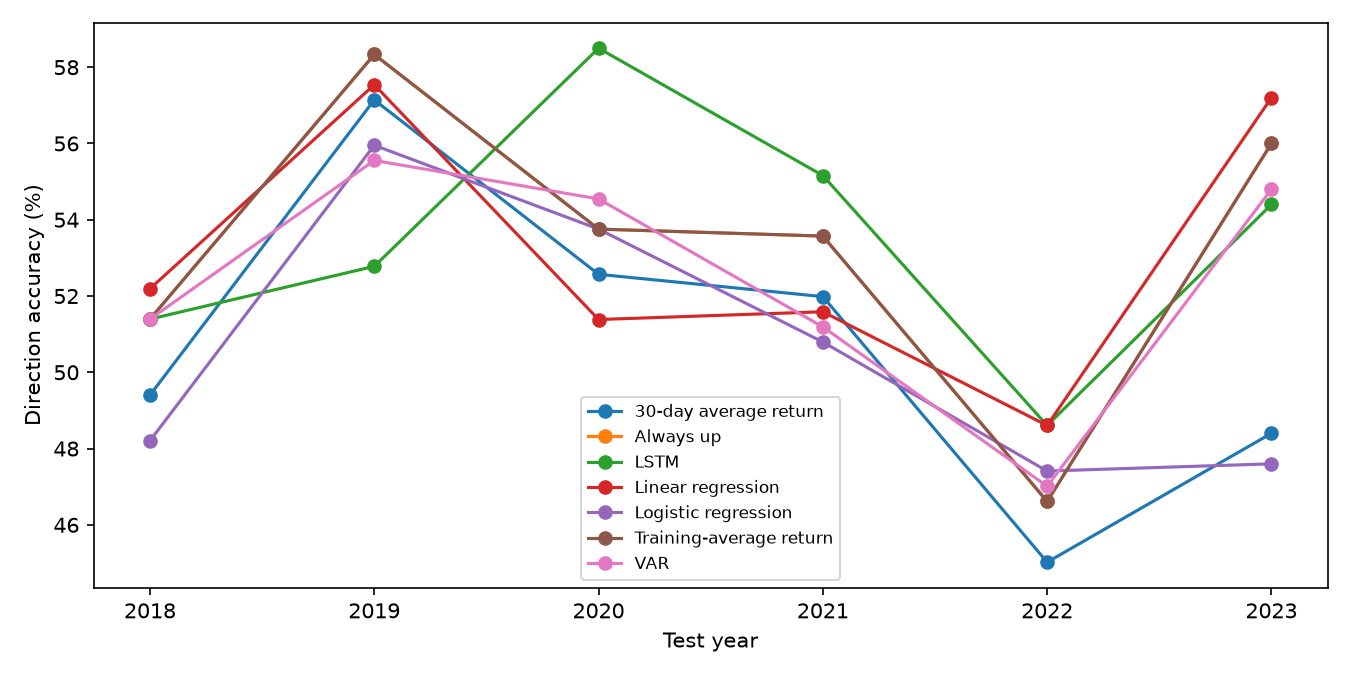
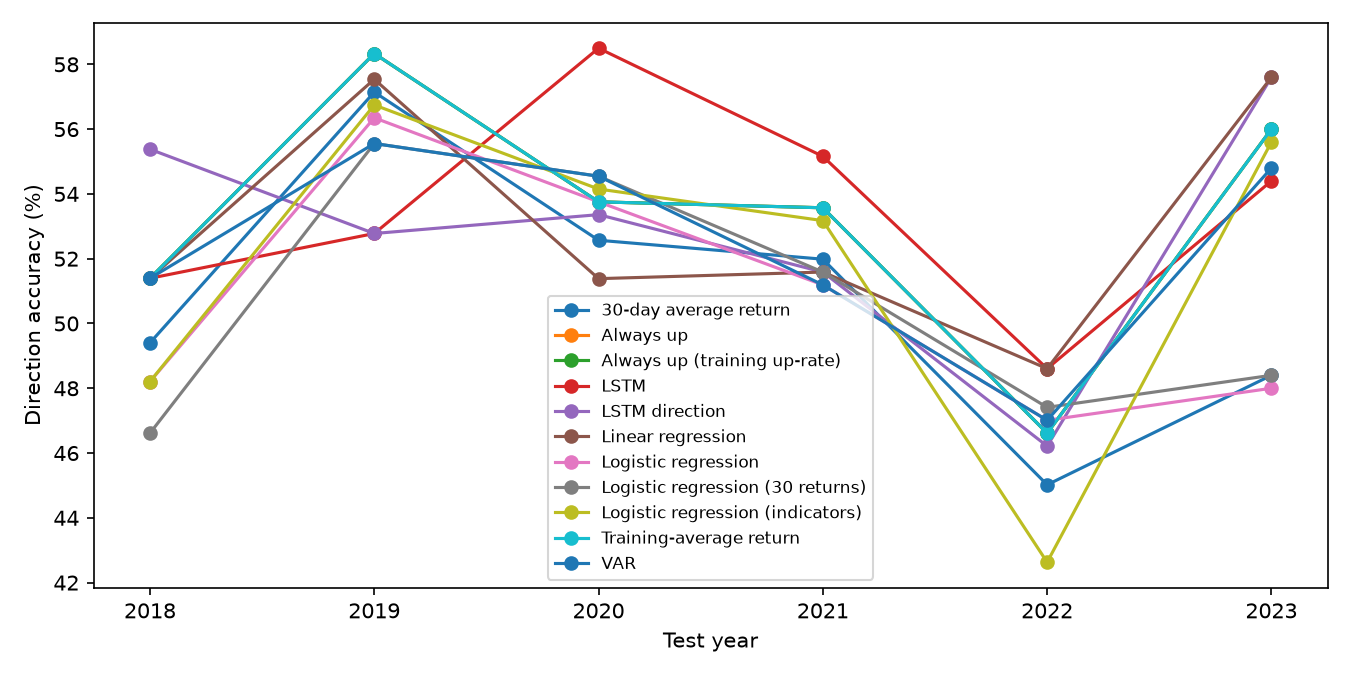
analysis(stock-forecast): save direction validation and walk-forward results

diff --git a/apps/stock-forecast/README.md b/apps/stock-forecast/README.md
@@ -1,6 +1,6 @@
 # Stock Forecast
 
-Offline Python pipeline that forecasts AAPL's next-day return and checks whether any model beats simple baselines. It trains on real daily prices from Yahoo Finance, not on the platform's synthetic market data, and it is not deployed. It prepares `apps/client-ui/public/forecast/scorecard.json` as the placeholder contract for planned market-page Trend card work; the UI does not consume it yet.
+Offline Python pipeline that forecasts whether AAPL's next trading day is up or down (and, as a secondary track, its next-day return) and checks whether any model beats simple baselines. It trains on real daily prices from Yahoo Finance, not on the platform's synthetic market data, and it is not deployed. It prepares `apps/client-ui/public/forecast/scorecard.json` as the placeholder contract for planned market-page Trend card work; the UI does not consume it yet.
 
 ## Models compared
 
@@ -16,6 +16,27 @@ Every model is scored on the same days with the same metrics.
 | Logistic regression | Up or down, from the last 30 returns | `baselines.py` |
 | VAR(p) | Return, jointly with SPY's return and AAPL's volume change, p chosen by AIC | `var_model.py` |
 | LSTM | Return, from 30-day windows of one or more columns | `lstm_model.py` |
+| Always up (training up-rate) | The training up-share as a probability, every day | `pipeline.py` |
+| Logistic regression (indicators) | Probability of an up day, from today's indicator values | `pipeline.py` |
+| Logistic regression (30 returns) | Probability of an up day, from the last 30 returns | `pipeline.py` |
+| LSTM direction | Probability of an up day, from windows of the direction features | `lstm_model.py` |
+
+## Direction models
+
+The direction track is the headline. Each direction model outputs P(up) for the next day and calls "up" when it is above `DIRECTION_THRESHOLD` (0.5). Accuracy alone flatters a model that calls "up" nearly every day, so each run also reports:
+
+| Metric | Meaning | No-skill value |
+| --- | --- | --- |
+| `direction_accuracy` | Share of days called correctly | The always-up rate on the same days |
+| `balanced_accuracy` | Mean of the up-day and down-day hit rates | 0.5 |
+| `up_call_rate` | Share of days called "up" | Near 1.0 means the model collapsed into always-up |
+| `auc` | Chance an up day got a higher probability than a down day | 0.5 |
+| `brier_skill` | Improvement in squared probability error over quoting the training up-rate | 0 or below |
+| `log_loss` | Cross-entropy of the probabilities; used to choose settings | The base rate's log loss |
+
+Inputs (`DIRECTION_FEATURES`): today's return, SPY's return, volume change, 10-day volatility and 20-day momentum. `data.add_indicators` computes the last two from past rows only and drops the warm-up rows in early 2010. The final training and validation rows carry a label from the next split, so the direction models never fit or early-stop on those labels. Confidence buckets split the scored days into five equal groups by distance from 0.5; accuracy that does not rise with confidence means the probabilities do not tell you which days to trust.
+
+`market-conditions.py` is descriptive: the next-day up-rate after conditions such as a 2% drop or high volatility, in training and validation side by side, with thresholds cut from training rows only. It never reads the test years.
 
 ## Data and splits
 
@@ -61,10 +82,12 @@ Run from `apps/stock-forecast` with the virtual environment active.
 | 3 | `python scripts/0005-export-scorecard.py --placeholder` | Placeholder `scorecard.json` for the UI | Once, week 1 |
 | 4 | `python scripts/0002-evaluate-baselines.py` | `reports/results.csv`, direction chart | Week 1, again after changes |
 | 5 | `python scripts/0003-train-lstm.py` | `models/`, `reports/results.csv`, loss and lag charts | Week 2 |
-| 6 | `python scripts/0004-walk-forward.py --with-lstm` | `reports/walk_forward.csv`, chart | Week 3 |
-| 7 | `python scripts/0005-export-scorecard.py --model lstm` | `reports/test_results.csv`, real `scorecard.json` | Once, Oct 22 |
+| 6 | `python scripts/market-conditions.py` | `reports/market_conditions.csv` and `.png` | Week 3 |
+| 7 | `python scripts/0003-train-lstm.py --task direction --sweep` | `models/lstm-direction/`, `reports/direction_results.csv`, confidence, probability and loss charts | Week 3 |
+| 8 | `python scripts/0004-walk-forward.py --with-lstm --with-direction-lstm` | `reports/walk_forward.csv`, chart | Week 3 |
+| 9 | `python scripts/0005-export-scorecard.py --model lstm-direction` | `reports/test_results.csv`, `reports/test_direction_results.csv`, test confidence charts, real `scorecard.json` | Once, Oct 22, after the final review |
 
-`0003-train-lstm.py --features ret spy_ret volume_change` trains on several columns. `0005` accepts `--model lstm`, `var` or `linear`, and refuses to rerun the test unless given `--force`.
+`0003-train-lstm.py --features ret spy_ret volume_change` trains the return LSTM on several columns. With `--task direction`, `--sweep` tries every `DIRECTION_SWEEP_LOOKBACKS` and `DIRECTION_SWEEP_UNITS` pair on validation and saves the lowest-log-loss run; without it, `--lookback`, `--units` and `--seed` train one model (use `--seed` to check that a result is not one lucky initialisation). Copy the chosen settings into `DIRECTION_LOOKBACK` and `DIRECTION_UNITS`, which walk-forward uses. `0005` accepts `--model lstm-direction`, `lstm`, `var` or `linear`, and refuses to rerun the test unless given `--force`.
 
 `0002-evaluate-baselines.py` scores six forecasts on the same 2022-2023
 validation dates: zero return, always up, 30-day average, training average,
@@ -103,4 +126,4 @@ The order is chosen by AIC on the training years only. Volume changes are strong
 - Tune on validation. Run the test once. Every run is appended to `reports/results.csv`, good or bad.
 - No fallbacks that invent data or predictions: a failed download or missing package stops the run.
 - `data/` and `reports/` are committed; `models/` is not (the scripts rebuild it).
-- `scorecard.py` defines the fields for the planned UI contract. Coordinate field changes with the client UI when its scorecard service and API documentation are added.
+- `scorecard.py` defines the fields for the planned UI contract. `modelReturnRmse` is `null` for a direction-only model. Coordinate field changes with the client UI when its scorecard service and API documentation are added.
